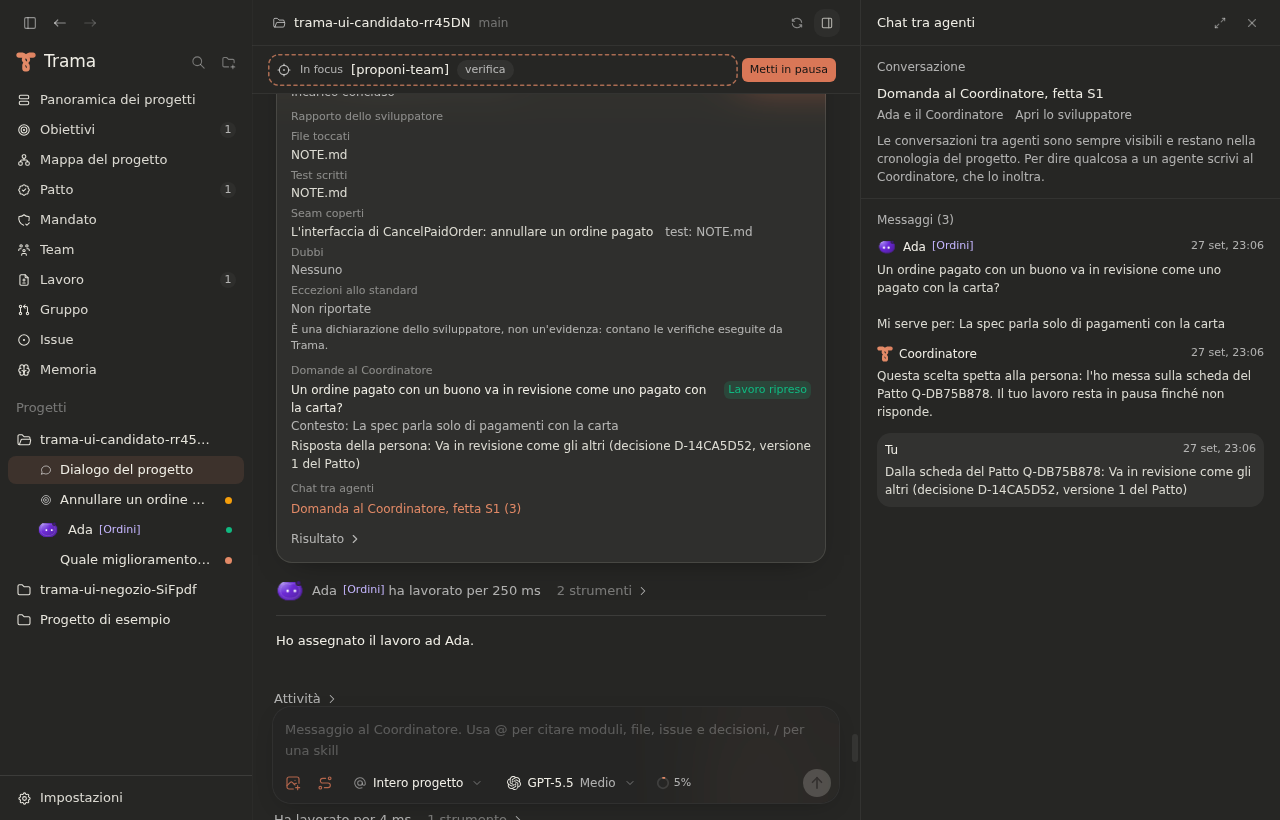
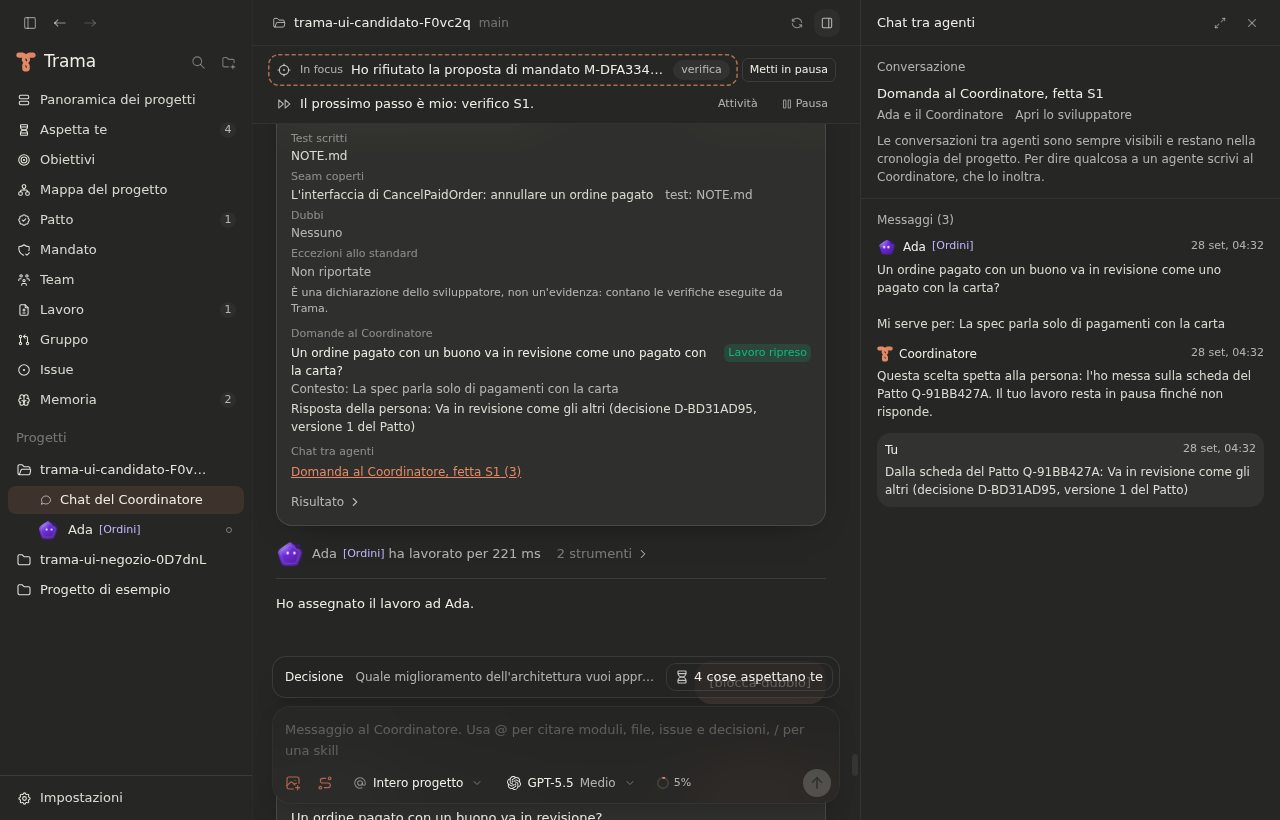
docs: refresh the interface check of the conversations between agents
Claude-Session: https://claude.ai/code/session_01LEqxbdMchNky1h8U3rVVxb

diff --git a/docs/verifiche/w07-chat-tra-agenti-2026-09-27.md b/docs/verifiche/w07-chat-tra-agenti-2026-09-27.md
@@ -7,7 +7,7 @@ Le conversazioni sono in sola lettura e non stanno nella barra laterale, secondo
 ## Metodo
 
 - "Prima": `main` a cf7eede, passo W06 dell'ui-check (`19h-developer-question-resumed`). La domanda dello sviluppatore e la risposta esistono solo dentro la scheda dell'incarico.
-- "Dopo": il branch della issue unito a `origin/main`, passo W07 dell'ui-check subito dopo W06 (`19j` a `19m`).
+- "Dopo": il branch della issue unito a `origin/main` a 7763d2d (chat unica e barra laterale pulita incluse), passo W07 dell'ui-check subito dopo W06 (`19j` a `19m`).
 - Il passo W07 controlla: nessuna conversazione nella barra laterale; il collegamento "Chat tra agenti" nella scheda dell'incarico; gli autori dei messaggi nell'ordine sviluppatore, Coordinatore, persona (la risposta sulla scheda del Patto); il tag colorato dello sviluppatore; nessun campo di testo né pulsante per scrivere; l'elenco delle conversazioni nella scheda dello specialista.
 
 ## Schermate
@@ -24,4 +24,4 @@ Le conversazioni sono in sola lettura e non stanno nella barra laterale, secondo
 
 ## Limiti
 
-I messaggi del revisore e del guardiano delle regressioni sono coperti dai test in `app/src/main/core/agentThreads.test.ts`, non da una schermata dedicata.
+I messaggi dei revisori del candidato e del guardiano delle regressioni nascono alla fine del gate dei revisori (W10) e sono coperti dai test in `app/src/main/core/agentThreads.test.ts`, non da una schermata dedicata.
